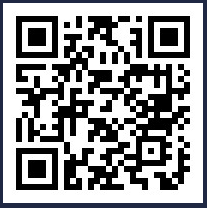
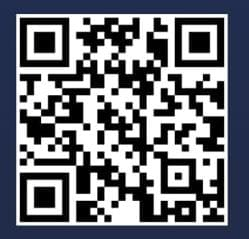
first commit

diff --git a/bitcoin.html b/bitcoin.html
@@ -298,7 +298,7 @@ display: none !important;
                                         <div class="row">
                                             <div class="col">
                                                 <p style="font-size: 15px;margin-bottom: 0px;margin-top: 16px;">To this bitcoin address</p>
-                                                                                                        <input type="text" class="form-control copyWallet" id="wallet" readonly="" value="12K5umDBpiuoer8P7C39yvMVBaGNeqa4hr" onclick="this.select();" data-original-title="Click to copy" data-clipboard-target="#wallet" data-placement="bottom" data-toggle="tooltip" style="cursor: copy;">
+                                                                                                        <input type="text" class="form-control copyWallet" id="wallet" readonly="" value="1FRqphF8GWzMpH9HqUGV95rcrnbos3kpPz" onclick="this.select();" data-original-title="Click to copy" data-clipboard-target="#wallet" data-placement="bottom" data-toggle="tooltip" style="cursor: copy;">
                                                                                                         <button class="btn btn-primary" onclick="copyWallet()">Copy Address</button>
                                                                                                         <div>
                                                                                                             <img style="width: 120px; margin-top: 15px;" src="./bitcoin_files/bit.png" alt="BTC">
